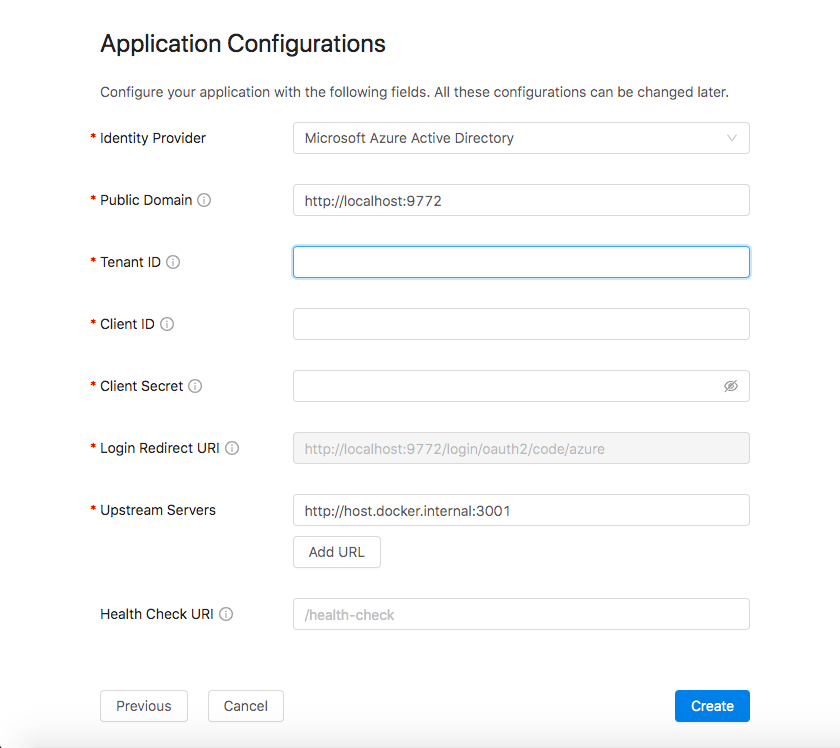
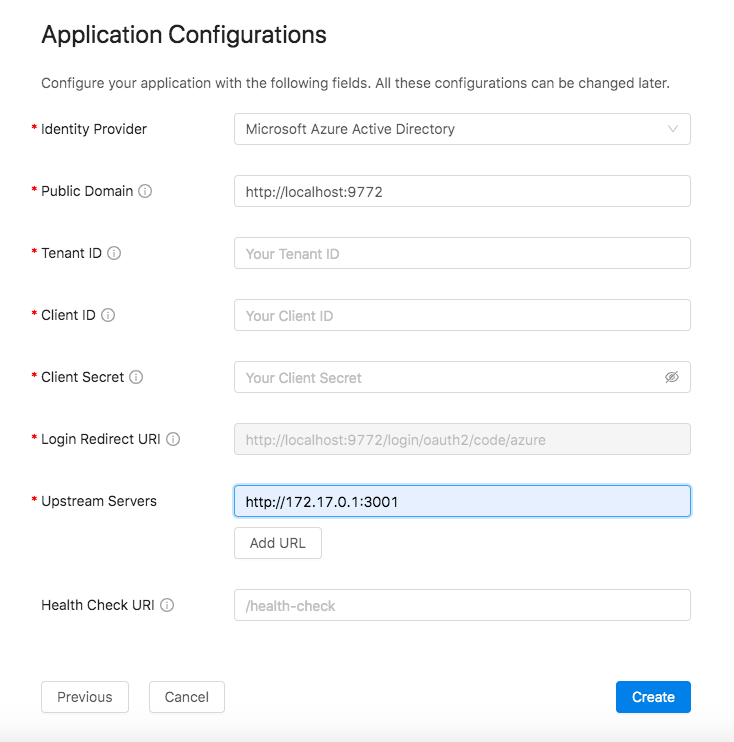
update

diff --git a/README.md b/README.md
@@ -1,6 +1,6 @@
 # How to secure our applications using the Datawiza Access Broker 
 
-This tutorial will show you how to use the Datawiza Access Broker ([DAB](https://datawiza.com/access-broker)) to implement a Zero Trust architecture for your applications. We will deploy the DAB to proxy to a simple Flask application and will use **Microsoft Azure Active Directory** as our Identitiy Provider (IdP) to implement Single Sign on (SSO). The DAB provides a unified authentication and authorization layer which is decoupled from the application itself. It can be deployed both on-premise and on the cloud as a container. After deploying the DAB, we will also see how we can implement access control policies on a URL-level. 
+This tutorial will show you how to use the Datawiza Access Broker ([DAB](https://datawiza.com/access-broker)) to implement a Zero Trust architecture for your applications. We will deploy the DAB to proxy to a simple Flask application and will use **Microsoft Azure Active Directory** as our Identitiy Provider (IdP) to implement Single Sign on (SSO). The DAB provides a unified authentication and authorization layer which is decoupled from the application itself. It can be deployed both on-premise and on the cloud as a container. After deploying the DAB, we will also see how we can implement access control policies on a URL-level. This tutorial was written and created using a Debian environment. 
 
 ---
 
@@ -29,37 +29,35 @@ The DAB can be deployed in one of two modes:
 
 ## Preview
 After learning a bit more about the architecture and benefits of the Datawiza Access Broker, let's see it in action for ourselves. In this tutorial, we will use the DAB to enable both SSO and granular access control for a simple Flask application serving static HTML. The Identity Provider we will use is Azure Active Directory. 
-* Our Flask application will run on our local `eth0` local interface. In this example, `192.168.0.80:3001`.
+* Our Flask application will run on our local docker interface. Perform an `ip addr show docker0` to get this address. In this example, our Flask app is running on `172.17.0.1:3001`.
 * The DAB will run on `localhost:9772`. The traffic to our app will reach the DAB first, and then be proxied to our application. 
-* The docker image for both the DAB and sample Flask application will be provided.
+* The docker image for the Datawiza Access Broker and code for the sample Flask application will be provided
  
 ---
 
 ## Part 0: Installing prerequisites
 We deploy the DAB as we would any other reverse-proxy, such as NGINX. In this tutorial, we will use `docker-compose` to run the access broker. Let's take care of these prerequisites by installing them now. 
 
-Let's first install docker. Refer [here](https://docs.docker.com/get-docker/) regarding operating systems specific instructions. In a Linux environment, we can run `wget -qO- https://test.docker.com/ | sh` to install our docker dependency. 
+1. Let's first install docker. Refer [here](https://docs.docker.com/get-docker/) regarding operating systems specific instructions. In a Linux environment, we can run `wget -qO- https://test.docker.com/ | sh` to install our docker dependency.  We will need this when we try to pull the docker image containing the DAB. 
 
-We will need this when we try to pull the docker image containing the DAB. 
+2. Download docker-compose. Refer [here](https://docs.docker.com/compose/install/) for installation instructions. 
 
-Next, let's download docker-compose. Refer [here](https://docs.docker.com/compose/install/) for installation instructions. 
-
-Finally, check that both installations were successful by doing:
+3. Finally, check that both installations were successful by doing:
 ```
 docker --version
 docker-compose --version
 ```
-If both commands show version and build numbers, you are good to go!
+If both commands show their version and build numbers, you are good to go!
 
 ## Part 1: A quick look at our Flask App
 Our Flask app is serving static HTML. To see what the page looks like, first source the virtual environment:
 ```
-`cd flask_app`
-`source blog-venv/bin/activate`
+cd flask_app
+source blog-venv/bin/activate
 ```
 
 Then, run the application: `./app`.
-> When visiting `http://192.168.0.80:3001`, you should see the following image:
+> When visiting `http://172.17.0.1:3001`, you should see the following image:
 ![Flask App](./img/flask.png)
 
 Eventually, once we set up the DAB to proxy to our app, we will be able to access our Flask application when visiting `http://localhost:9772`, where we should be prompted to sign with our Identity Provider (Azure Active Directory in this case).
@@ -132,10 +130,10 @@ Just like how we created an application on Azure AD, we need to create an applic
 * Copy and paste the previous saved values from the Azure AD configuration (Part 1) for the **Application (client) ID**, **Client Secret**, and **Tenant ID**
 * `Upstream Server`: (see below)
     * Is the address of the application that you want to enable SSO for
-    * If you are using the DAB in sidecar mode and the Flask application is running on `http://192.168.0.80:3001`, set the upstream server to `http://192.168.0.80:3001` (address of our Flask app). 
+    * Set the upstream server to the local Docker network (`ip addr show docker0`) where our Flask app is being hosted. In this case, it is http://172.17.0.1:3001`.
 * Then select `Create`
 
-![Application Config](./img/app_config.png)
+![App Config](./img/app_config.png)
 
 ### Generate API keypair on DCMC
 1. Return to the `Application` tab and select `API Token` to generate a keypair. Select `Create API Key`. 
